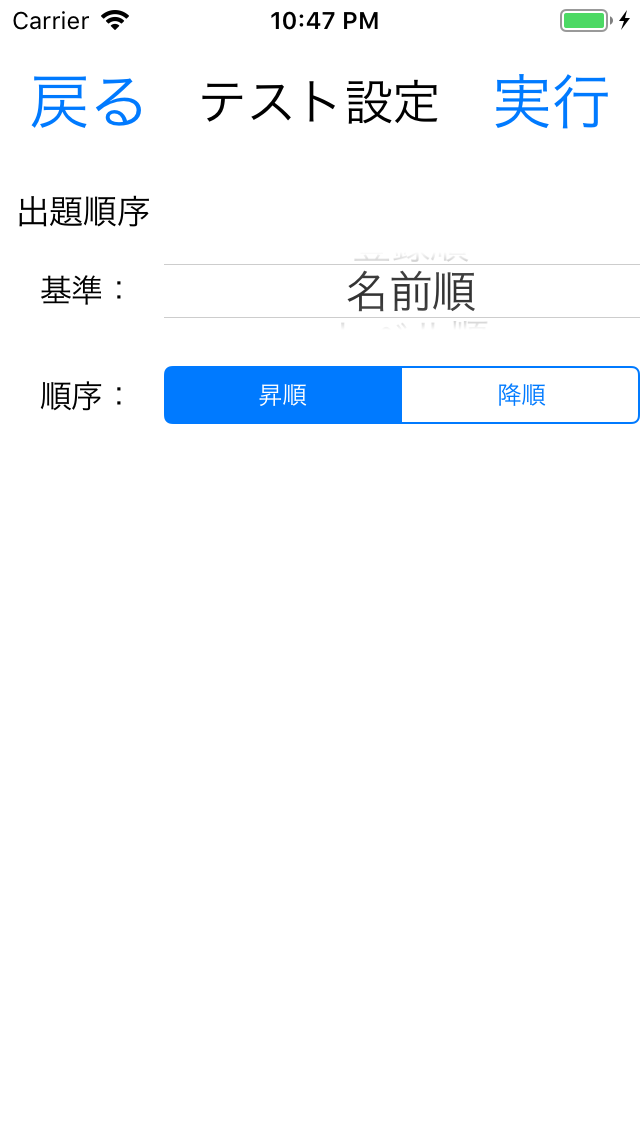
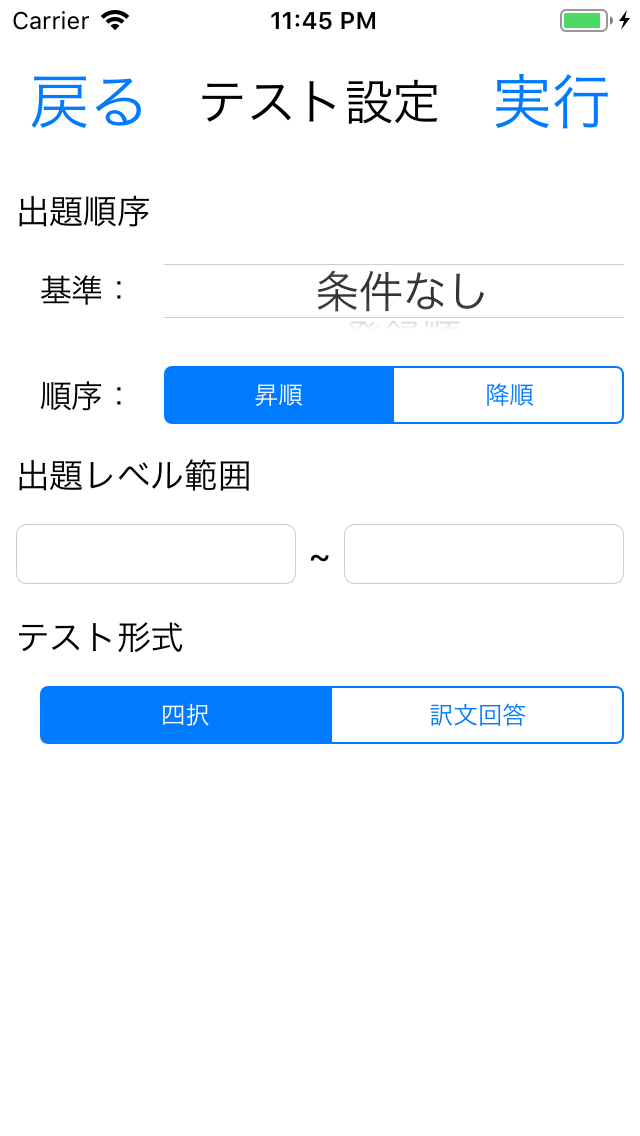
四択単語テスト機能追加！

diff --git a/EnglishWords/EnglishWords/FourOptionTestOfWordNoteViewController.swift b/EnglishWords/EnglishWords/FourOptionTestOfWordNoteViewController.swift
@@ -8,8 +8,9 @@
 
 import Foundation
 import UIKit
+import RealmSwift
 
-class FourOptionTestOfWordNoteViewController: UIViewController  {
+class FourOptionTestOfWordNoteViewController: UIViewController, UITableViewDelegate, UITableViewDataSource  {
     
     @IBOutlet var word: UILabel!
     @IBOutlet var wordNote: UILabel!
@@ -17,11 +18,229 @@ class FourOptionTestOfWordNoteViewController: UIViewController  {
     @IBOutlet var clearLabel: UILabel!
     @IBOutlet var rate: UILabel!
 
+    @IBOutlet var table:UITableView!
+    
+    var nowWord: Word?
+    var wordIdx: Int = 0
+    var wordnotebook: WordNoteBook?
+    var nowWordDataList: [WordData] = []
+
+    //検索結果の単語リスト(テスト設定画面で取得)
+    var wordNoteList: [WordNote] = []
+
+    //検索結果の単語リスト内の正解・不正解単語の単語データ
+    var correctWordDataList: [WordData] = []
+    var incorrectWordDataList: [WordData] = []
+    //セルに表示する単語データ（選択肢）
+    var displayWordDataList: [WordData] = []
+    //正解の選択肢のインデックス
+    var correctIndex: Int = 0
+    
+    //何択問題でやるかの指定
+    let optionNum = 4
+
     override func viewDidLoad() {
         super.viewDidLoad()
+        
+        clearLabel.textColor = UIColor.white
+        
+        if(wordNoteList.count == 0){
+            //検索結果無し、エラーアラート出して戻させる
+            showAlert(mes: "検索結果がありません")
+        }else{
+            wordIdx = 0
+            nowWord = wordNoteList[wordIdx].word
+            
+            word.text = wordNoteList[wordIdx].word?.wordName
+            wordNote.text = wordnotebook?.wordNoteBookName
+            count.text = (wordIdx + 1).description + "/" + wordNoteList.count.description
+            rate.text = "(" + (nowWord?.numOfCorrect.description)! + "/" + (nowWord?.numOfAnswer.description)! + ")"
+            
+            //選択したWordからデータベース内に保存してあるWordDataを取得
+            let realm: Realm = try! Realm()
+            //正解データ
+            var results = realm.objects(WordData.self).filter("word.wordName == %@",nowWord?.wordName)
+            correctWordDataList = Array(results)
+            //不正解データ
+            results = realm.objects(WordData.self).filter("word.wordName != %@",nowWord?.wordName)
+            incorrectWordDataList = Array(results)
+            //正解の選択肢
+            correctIndex = Int.random(in: 0..<optionNum)
+            //選択肢作成
+            for i in 0..<optionNum {
+                if(i == correctIndex){
+                    displayWordDataList.append(correctWordDataList[Int.random(in: 0..<correctWordDataList.count)])
+                }else{
+                    displayWordDataList.append(incorrectWordDataList[Int.random(in: 0..<incorrectWordDataList.count)])
+                }
+            }
+        }
     }
     
     override func didReceiveMemoryWarning() {
         super.didReceiveMemoryWarning()
+    }
+    
+    @IBAction func buttonTapped(sender: UIButton) {
+        if(sender.tag == 0){
+            performSegue(withIdentifier: "returntoConfigureTestOfWordNoteBookViewController",sender: nil)
+        }else if(sender.tag == 1){
+            //次の単語へ
+            toNextWord()
+        }
+    }
+    
+    // Segue 準備
+    override func prepare(for segue: UIStoryboardSegue, sender: Any!) {
+        if (segue.identifier == "returntoConfigureTestOfWordNoteBookViewController") {
+            let ctwnbVC: ConfigureTestOfWordNoteBookViewController = (segue.destination as? ConfigureTestOfWordNoteBookViewController)!
+            ctwnbVC.wordnotebook = wordnotebook
+        }else if(segue.identifier == "returntoConfigureWordNoteBookViewController"){
+            let cwnbVC: ConfigureWordNoteBookViewController = (segue.destination as? ConfigureWordNoteBookViewController)!
+            cwnbVC.wordnotebook = wordnotebook
+        }
+    }
+    
+    //Table Viewのセルの数を指定
+    func tableView(_ table: UITableView,
+                   numberOfRowsInSection section: Int) -> Int {
+        return optionNum
+    }
+    
+    //各セルの要素を設定する
+    func tableView(_ table: UITableView,
+                   cellForRowAt indexPath: IndexPath) -> UITableViewCell {
+        // tableCell の ID で UITableViewCell のインスタンスを生成
+        let cell = table.dequeueReusableCell(withIdentifier: "tablecell",
+                                             for: indexPath)
+        // Tag番号  で UILabel インスタンスの生成
+        // 単語の訳文を表示
+        let oneworddata = displayWordDataList[indexPath.row]
+        let partofspeech = cell.viewWithTag(1) as! UILabel
+        partofspeech.numberOfLines = 0
+        partofspeech.text = oneworddata.partofspeech?.partsOfSpeechName
+        let mean = cell.viewWithTag(2) as! UILabel
+        mean.numberOfLines = 0
+        mean.text = oneworddata.mean
+        mean.textColor = UIColor.black
+        mean.sizeToFit()
+        cell.backgroundColor = UIColor(red: 1.0, green: 1.0, blue: 0.0, alpha: 0.5)
+        return cell
+    }
+    
+    // Cell が選択された場合
+    func tableView(_ table: UITableView,didSelectRowAt indexPath: IndexPath) {
+        
+        if indexPath.row == correctIndex {
+            //正解
+            let cell = table.cellForRow(at: IndexPath(item: correctIndex, section: 0))
+            let label = (cell?.viewWithTag(2) as! UILabel)
+            label.textColor = UIColor.red
+            clearLabel.text = "正解!!↑次へ"
+            clearLabel.textColor = UIColor.red
+        }else{
+            //不正解
+            let cell = table.cellForRow(at: IndexPath(item: correctIndex, section: 0))
+            let label = (cell?.viewWithTag(2) as! UILabel)
+            label.textColor = UIColor.red
+            clearLabel.text = "不正解!!↑次へ"
+            clearLabel.textColor = UIColor.black
+        }
+    }
+    
+    //次の単語へ移る
+    func toNextWord(){
+        
+        //正答数と回答数を記録（Wordを取得して更新）
+        let realm = try! Realm()
+        let results = realm.objects(Word.self).filter("wordName == %@",nowWord?.wordName).first
+        
+        try! realm.write {
+            results?.numOfAnswer = (nowWord?.numOfAnswer)! + 1
+            if(clearLabel.text == "正解!!↑次へ"){
+                //訳文を全部正答したなら正答数も+1
+                results?.numOfCorrect = (nowWord?.numOfCorrect)! + 1
+            }
+        }
+
+        //隠しラベル非点灯へ
+        clearLabel.text = ""
+        clearLabel.textColor = UIColor.white
+        
+        if(wordIdx >= wordNoteList.count - 1){
+            //テスト終了
+            testEndDispAlert()
+        }else{
+            wordIdx += 1
+            nowWord = wordNoteList[wordIdx].word
+            
+            word.text = wordNoteList[wordIdx].word?.wordName
+            wordNote.text = wordnotebook?.wordNoteBookName
+            count.text = (wordIdx + 1).description + "/" + wordNoteList.count.description
+            rate.text = "(" + (nowWord?.numOfCorrect.description)! + "/" + (nowWord?.numOfAnswer.description)! + ")"
+            
+            //選択したWordからデータベース内に保存してあるWordDataを取得
+            let realm: Realm = try! Realm()
+            //正解データ
+            var results = realm.objects(WordData.self).filter("word.wordName == %@",nowWord!.wordName)
+            correctWordDataList = Array(results)
+            //不正解データ
+            results = realm.objects(WordData.self).filter("word.wordName != %@",nowWord!.wordName)
+            incorrectWordDataList = Array(results)
+            //正解の選択肢
+            correctIndex = Int.random(in: 0..<optionNum)
+            //選択肢作成
+            displayWordDataList.removeAll()
+            for i in 0..<optionNum {
+                if(i == correctIndex){
+                    displayWordDataList.append(correctWordDataList[Int.random(in: 0..<correctWordDataList.count)])
+                }else{
+                    displayWordDataList.append(incorrectWordDataList[Int.random(in: 0..<incorrectWordDataList.count)])
+                }
+            }
+            
+            //テーブル更新
+            table.reloadData()
+        }
+    }
+    
+    // tableのCell の高さを９０にする
+    func tableView(_ table: UITableView,
+                   heightForRowAt indexPath: IndexPath) -> CGFloat {
+        return 90.0
+    }
+    
+    // 最後の単語が終わった時にアラートを表示するメソッド
+    @IBAction func testEndDispAlert() {
+        
+        //アラートの設定
+        let alert: UIAlertController = UIAlertController(title: "テストが終了しました", message: "単語帳設定画面へ戻ります", preferredStyle:  UIAlertControllerStyle.alert)
+        
+        //OKボタン
+        let okAction: UIAlertAction = UIAlertAction(title: "OK", style: UIAlertActionStyle.default, handler:{
+            // ボタンが押された時の処理を書く（クロージャ実装）
+            (action: UIAlertAction!) -> Void in
+            self.performSegue(withIdentifier: "returntoConfigureWordNoteBookViewController", sender: nil)
+        })
+        
+        //UIAlertControllerにActionを追加
+        alert.addAction(okAction)
+        
+        //アラートを表示
+        present(alert, animated: true, completion: nil)
+    }
+    //アラートを出すメソッド
+    func showAlert(mes: String) {
+        // アラートを作成
+        let alert = UIAlertController(
+            title: "エラー",
+            message: mes,
+            preferredStyle: .alert)
+        
+        // アラートにボタンをつける
+        alert.addAction(UIAlertAction(title: "OK", style: .default))
+        
+        // アラート表示
+        self.present(alert, animated: true, completion: nil)
     }
 }

diff --git a/EnglishWords/EnglishWords/ConfigureTestOfWordNoteBookViewController.swift b/EnglishWords/EnglishWords/ConfigureTestOfWordNoteBookViewController.swift
@@ -16,7 +16,8 @@ class ConfigureTestOfWordNoteBookViewController: UIViewController,UIPickerViewDe
     @IBOutlet var testOrderAscDesc: UISegmentedControl!
     @IBOutlet var minLevel: UITextField!
     @IBOutlet var maxLevel: UITextField!
-    
+    @IBOutlet var testForm: UISegmentedControl!
+
     let orderlist: [String] = ["条件なし","登録順","名前順","レベル順"]
     var selectedorderlist: String?
     
@@ -38,9 +39,10 @@ class ConfigureTestOfWordNoteBookViewController: UIViewController,UIPickerViewDe
 
         // ボタンを選択中にする場所を指定
         testOrderAscDesc.selectedSegmentIndex = 0
+        testForm.selectedSegmentIndex = 0
         // ボタン選択時にボタンを選択状態にするかどうかの設定
         testOrderAscDesc.isMomentary = false
-
+        testForm.isMomentary = false
     }
     
     override func didReceiveMemoryWarning() {
@@ -83,7 +85,9 @@ class ConfigureTestOfWordNoteBookViewController: UIViewController,UIPickerViewDe
             if(wordNoteList.count == 0){
                 //検索結果無し、エラーアラート出して戻させる
                 showAlert(mes: "検索結果がありません")
-            }else{
+            }else if(testForm.selectedSegmentIndex == 0){
+                performSegue(withIdentifier: "toFourOptionTestFromConfigureTestOfWordNoteBookViewController", sender: nil)
+            }else if(testForm.selectedSegmentIndex == 1){
                 performSegue(withIdentifier: "toTestFromConfigureTestOfWordNoteBookViewController", sender: nil)
             }
         }
@@ -98,6 +102,10 @@ class ConfigureTestOfWordNoteBookViewController: UIViewController,UIPickerViewDe
             let twnbVC: TestOfWordNoteBookViewController = (segue.destination as? TestOfWordNoteBookViewController)!
             twnbVC.wordnotebook = wordnotebook
             twnbVC.wordNoteList = wordNoteList
+        }else if(segue.identifier == "toFourOptionTestFromConfigureTestOfWordNoteBookViewController"){
+            let fotwnbVC: FourOptionTestOfWordNoteViewController = (segue.destination as? FourOptionTestOfWordNoteViewController)!
+            fotwnbVC.wordnotebook = wordnotebook
+            fotwnbVC.wordNoteList = wordNoteList
         }
     }
     
